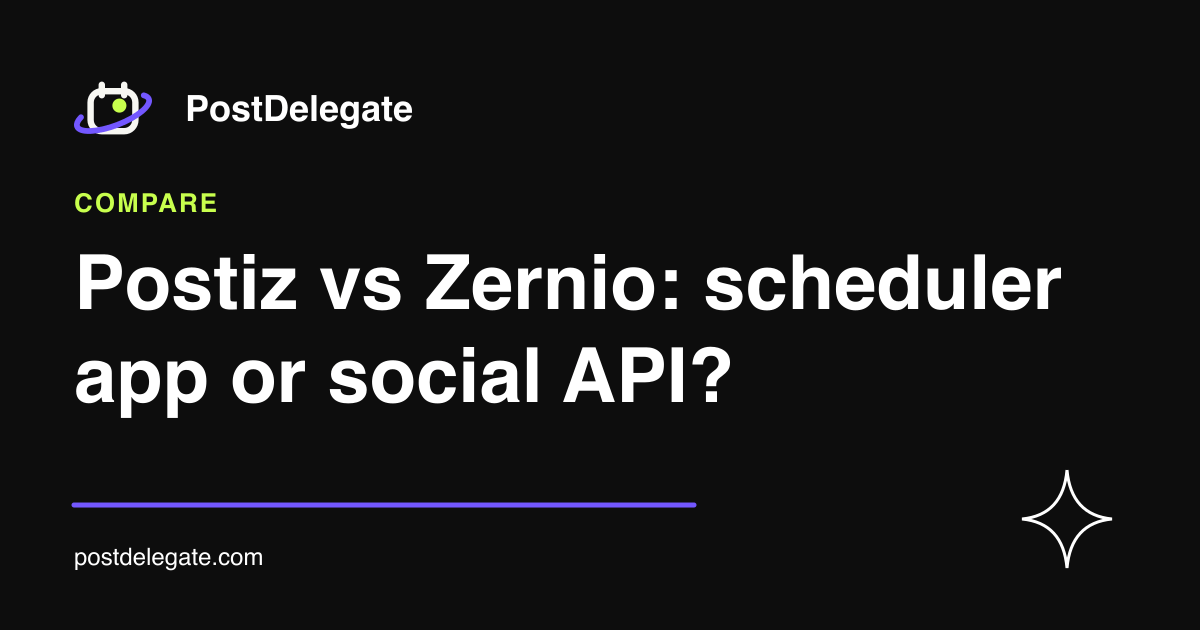
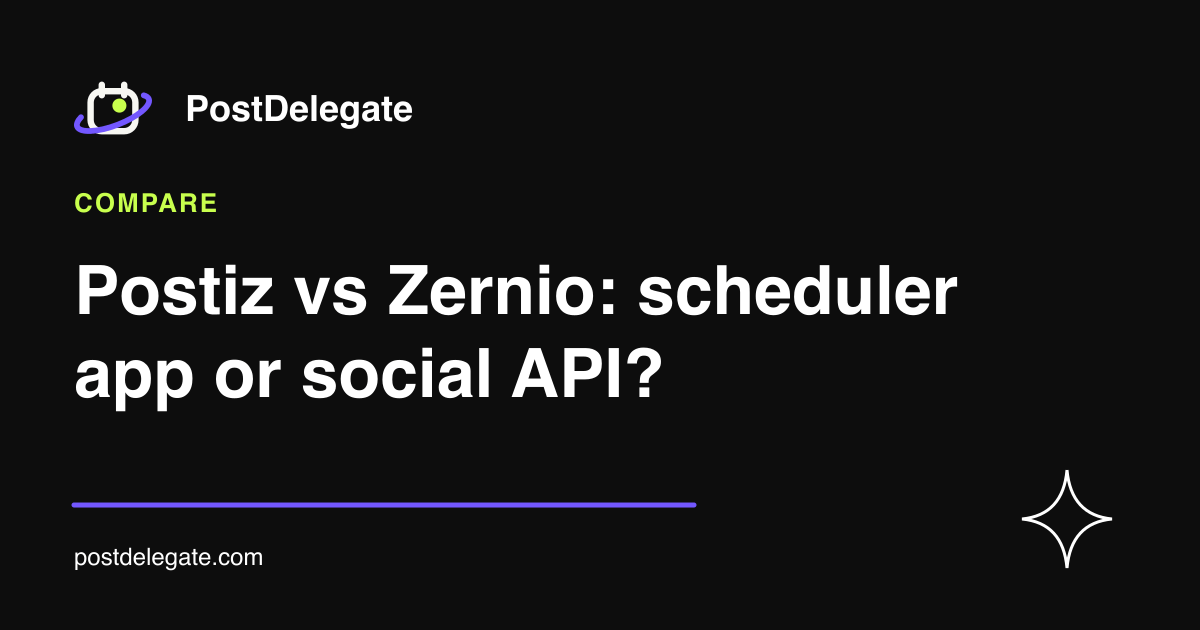
fix(site): the card fallback did not fall back, and a guard that guarded nothing
From the review of the first commit.

layout()'s last resort re-split the title and emitted ONE unwrapped line
of up to 12 words: a 115-character headline would have run 535px off the
side of the card with the rest of the words gone, and the drift guard
would not have noticed because the page does have a card. It now keeps
the smallest size's own wrapping and takes the lines that fit. No title
in the list reaches it today; it is the one path nothing was watching.

The "run as a script" check compared import.meta.url to a raw
`file://${argv[1]}`, which does not match through a symlink or a path
with a space. It failed silently - exit 0, nothing rendered - and
astro build would then ship whatever cards happened to be in public/.
pathToFileURL now, and argv[1] is checked because it is undefined when
the module is imported.

The width estimate was described as pessimistic. Measured against the
rendered pixels of all 49 cards it runs up to 5% UNDER on a long line,
which left 31px of headroom rather than a cushion. The comment says what
is true and the box is 0.88 of the card, so the claim holds.

Three JSON-LD images were left behind: the 14 comparison pages and
/pricing still declared /og.png while og:image was their card. Both now
use the card, and /pricing resolves it from its own localised path so
/es/pricing keeps the brand card in both places.

Also: /alternatives/postiz is a comparison page and had no card; the
[…]

Changed region(s): [[0.0617, 0.3921, 0.8942, 0.5127], [0.0617, 0.5429, 0.6167, 0.6635]]

diff --git a/site/src/data/tools.ts b/site/src/data/tools.ts
@@ -5,6 +5,7 @@
 // so prices are re-read on the vendor's own site before they go stale.
 import { PLANS, type Plan } from './plans';
 import { SITE } from './site';
+import { ogCardFor } from './og-cards.mjs';
 
 export interface Fact { value: string; src: string | string[]; note?: string }
 // Per-unit prices that drop at volume: [up to this many units, price per unit per month], in order.
@@ -99,7 +100,9 @@ export function comparisonJsonLd(page: { path: string; title: string; descriptio
       { '@type': 'ListItem', position: 3, name: page.title, item: url }] },
     { '@context': 'https://schema.org', '@type': 'FAQPage', mainEntity: page.faq.map((f) => ({ '@type': 'Question', name: f.q, acceptedAnswer: { '@type': 'Answer', text: strip(f.a) } })) },
     { '@context': 'https://schema.org', '@type': 'Article', headline: page.title, description: page.description, url, mainEntityOfPage: url, inLanguage: 'en',
-      image: new URL('/og.png', SITE.url).href, datePublished: page.published, dateModified: page.modified,
+      // the page's own share card, which carries its headline; /og.png only
+      // for the pages that have no card of their own
+      image: new URL(ogCardFor(page.path) ?? '/og.png', SITE.url).href, datePublished: page.published, dateModified: page.modified,
       author: { '@type': 'Person', name: 'Naser Khanjar' },
       publisher: { '@type': 'Organization', name: SITE.operator, url: SITE.url, logo: { '@type': 'ImageObject', url: new URL('/postdelegate-icon-512.png', SITE.url).href, width: 512, height: 512 } } },
   ];

diff --git a/site/src/i18n/locales/ar.ts b/site/src/i18n/locales/ar.ts
@@ -11,7 +11,7 @@ const dict: Dict = {
     ctaNote: 'لا حاجة إلى بطاقة ائتمان',
     skipToContent: 'تخطَّ إلى المحتوى',
     homeLabel: 'الصفحة الرئيسية لـ PostDelegate',
-    // alt text of /og.png, the share image on every page
+    // alt text of /og.png, the share image of the pages with no card of their own (src/data/og-cards.mjs)
     ogImageAlt: 'شعار PostDelegate وعبارة “Your social media, all in one place.” على خلفية داكنة',
   },
   header: {

diff --git a/site/src/i18n/locales/en.ts b/site/src/i18n/locales/en.ts
@@ -28,7 +28,7 @@ const en = {
     ctaNote: CTA_NOTE,
     skipToContent: 'Skip to content',
     homeLabel: 'PostDelegate home',
-    // alt text of /og.png, the share image on every page
+    // alt text of /og.png, the share image of the pages with no card of their own (src/data/og-cards.mjs)
     ogImageAlt: 'PostDelegate logo and the line “Your social media, all in one place.” on a dark background',
   },
   header: {
